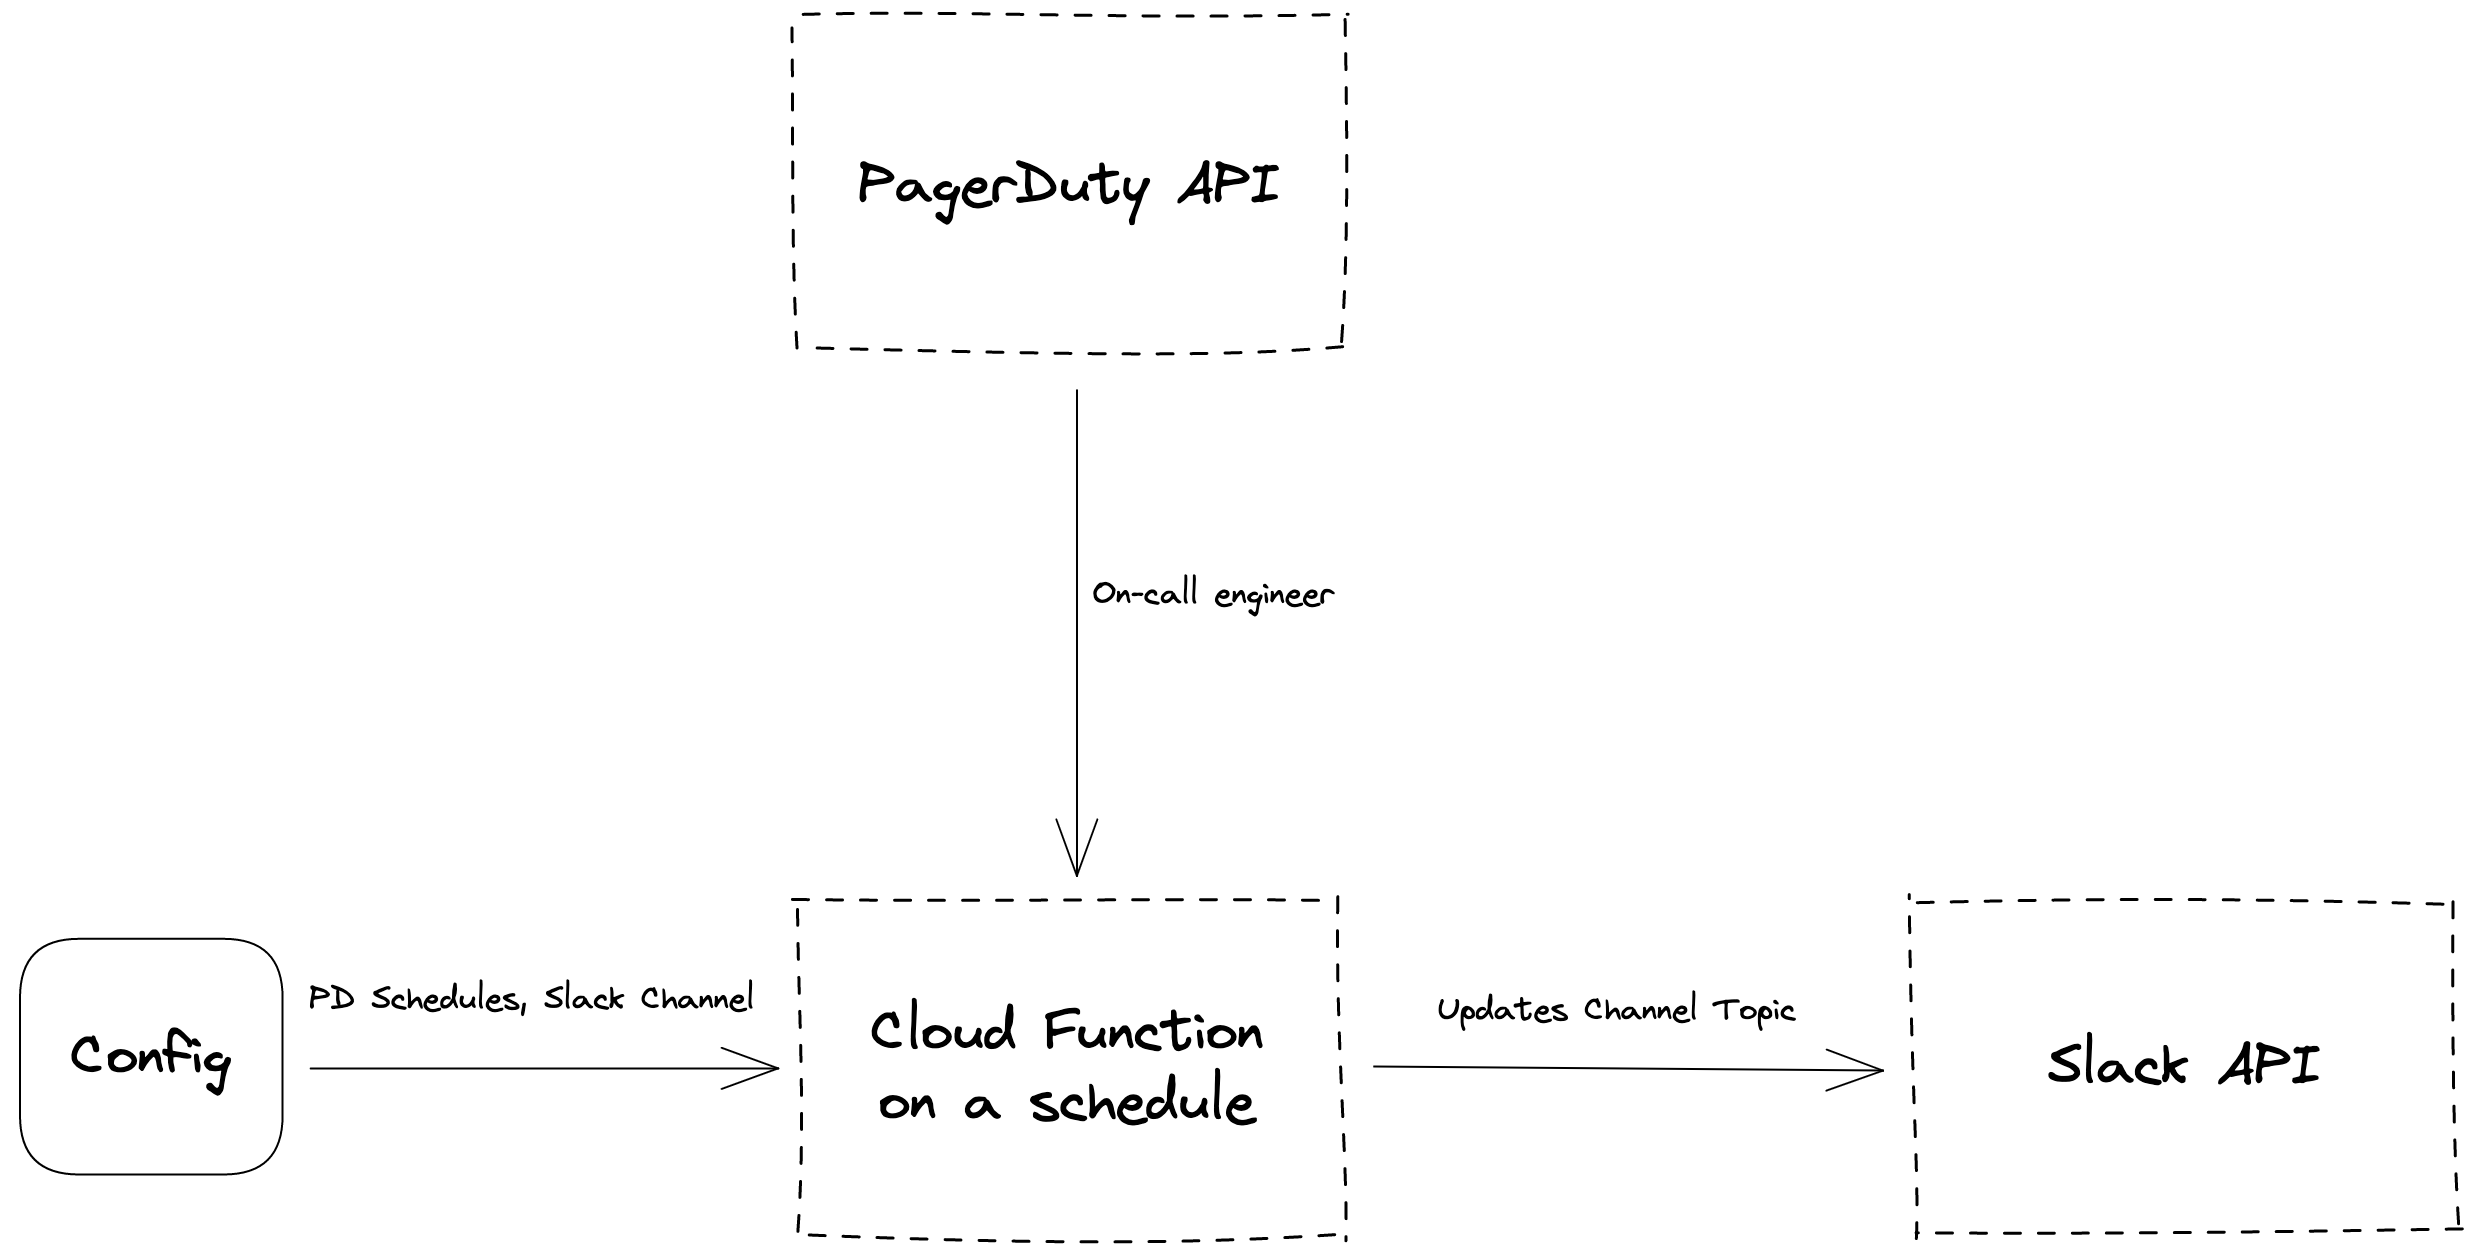
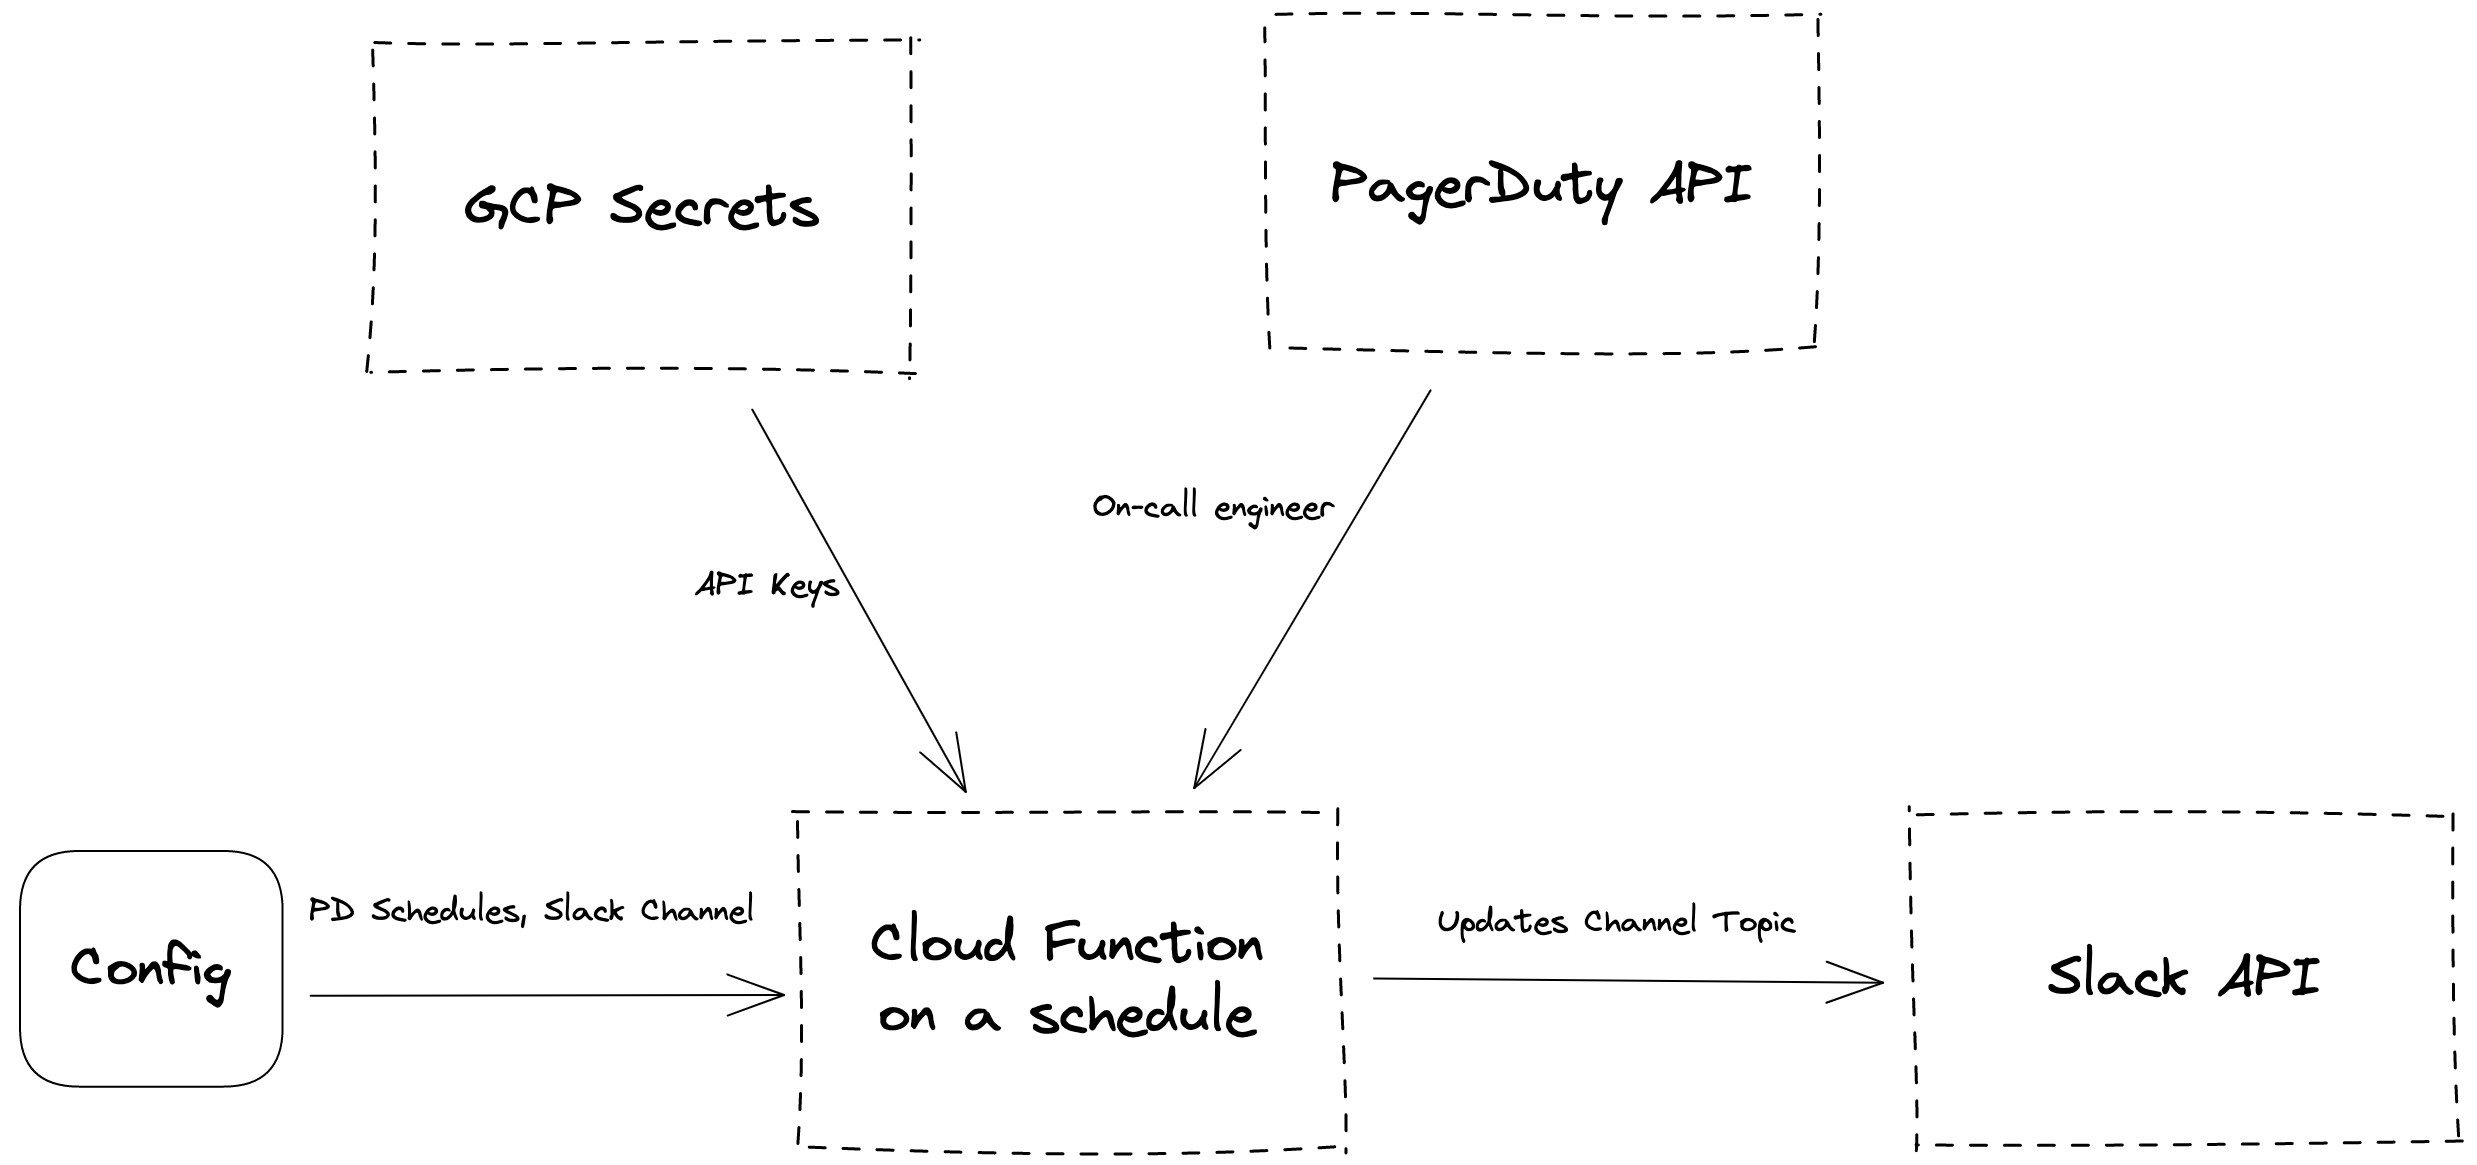
Grab secrets from GCP Secret Manager

diff --git a/main.py b/main.py
@@ -7,17 +7,26 @@ import threading
 import logging
 import re
 import json
+from google.cloud import secretmanager
 
 # semaphore limit of 5, picked this number arbitrarily
 maxthreads = 5
 sema = threading.Semaphore(value=maxthreads)
 
+smclient = secretmanager.SecretManagerServiceClient()
+
 logging.basicConfig(level=logging.DEBUG)
 logger = logging.getLogger()
 
 
-PAGERDUTY_API_KEY = os.environ['PAGERDUTY_API_KEY']
-SLACK_API_KEY = os.environ['SLACK_API_KEY']
+def secret_version(secret_name):
+    return f"projects/{os.environ['GCP_PROJECT_ID']}/secrets/{secret_name}/versions/latest"
+
+
+PAGERDUTY_API_KEY = smclient.access_secret_version(request={"name": secret_version(
+    os.environ['PAGERDUTY_API_KEY_SECRET_NAME'])}).payload.data.decode("UTF-8")
+SLACK_API_KEY = smclient.access_secret_version(request={"name": secret_version(
+    os.environ['SLACK_API_KEY_SECRET_NAME'])}).payload.data.decode("UTF-8")
 # [{"slack_channel_id": "foo", "pd_schedule_id": "bar"},{"slack_channel_id": "boo", "pd_schedule_id": "baz,moz"}]
 SCHEDULE_CONFIG = os.environ['SCHEDULE_CONFIG']
 
@@ -100,8 +109,9 @@ def update_slack_topic(channel, proposed_update):
     # then replace the rest of the string with the address
     # None of this is really ideal because we lose the "linking" aspect in the
     # Slack Topic.
+    slack_topic = get_slack_topic(channel)
     current_full_topic = re.sub(r'<mailto:([a-zA-Z@.]*)(?:[|a-zA-Z@.]*)>',
-                                r'\1', get_slack_topic(channel))
+                                r'\1', slack_topic)
     # Also handle Slack "Subteams" in the same way as above
     current_full_topic = re.sub(r'<(?:!subteam\^[A-Z0-9|]*)([@A-Za-z-]*)>', r'\1',
                                 current_full_topic)
@@ -156,7 +166,7 @@ def do_work(obj):
     logger.debug(f"username={username}, schedule_name={schedule_name}")
     if username is not None:  # then it is valid and update the chat topic
         topic = f"{username} is on-call for {schedule_name}"
-        # 'slack' may contain multiple channels seperated by whitespace
+        # 'slack' may contain multiple channels seperated by comma
         for channel in obj['slack_channel_id'].split(','):
             update_slack_topic(channel, topic)
     sema.release()

diff --git a/README.md b/README.md
@@ -1,12 +1,14 @@
 # pd-oncall-slack-topic
 
 A slightly modified version of [pagerduty/pd-oncall-chat-topic](https://github.com/PagerDuty/pd-oncall-chat-topic) that takes a list PD Schedule/Slack Channels as a JSON environment variable instead of reading from a database, and without any of the infrastructure code.
+Pagerduty and Slack API keys are pulled from GCP Secret Manager secrets.
 ![flow diagram](./docs/flow.png 'Flow Diagram')
 
 Given the following environment variables:
 
-- `PAGERDUTY_API_KEY` - key from https://support.pagerduty.com/docs/api-access-keys
-- `SLACK_API_KEY` - key from https://api.slack.com/authentication/basics. App user must be invited to channels you want to set topics for
+- `GCP_PROJECT_ID` - GCP project that contains the API key secrets
+- `PAGERDUTY_API_KEY_SECRET_NAME` - GCP Secret name that contains a key from https://support.pagerduty.com/docs/api-access-keys
+- `SLACK_API_KEY_SECRET_NAME` - GCP Secret name that contains a key from https://api.slack.com/authentication/basics. App user must be invited to channels you want to set topics for
 - `SCHEDULE_CONFIG` - list of objects providing a slack_channel_id and a comma-separated list of pd_schedule_ids to be updated with shift changes for that schedule:
 
   `'[{"slack_channel_id": "foo", "pd_schedule_id": "bar"}]'`
